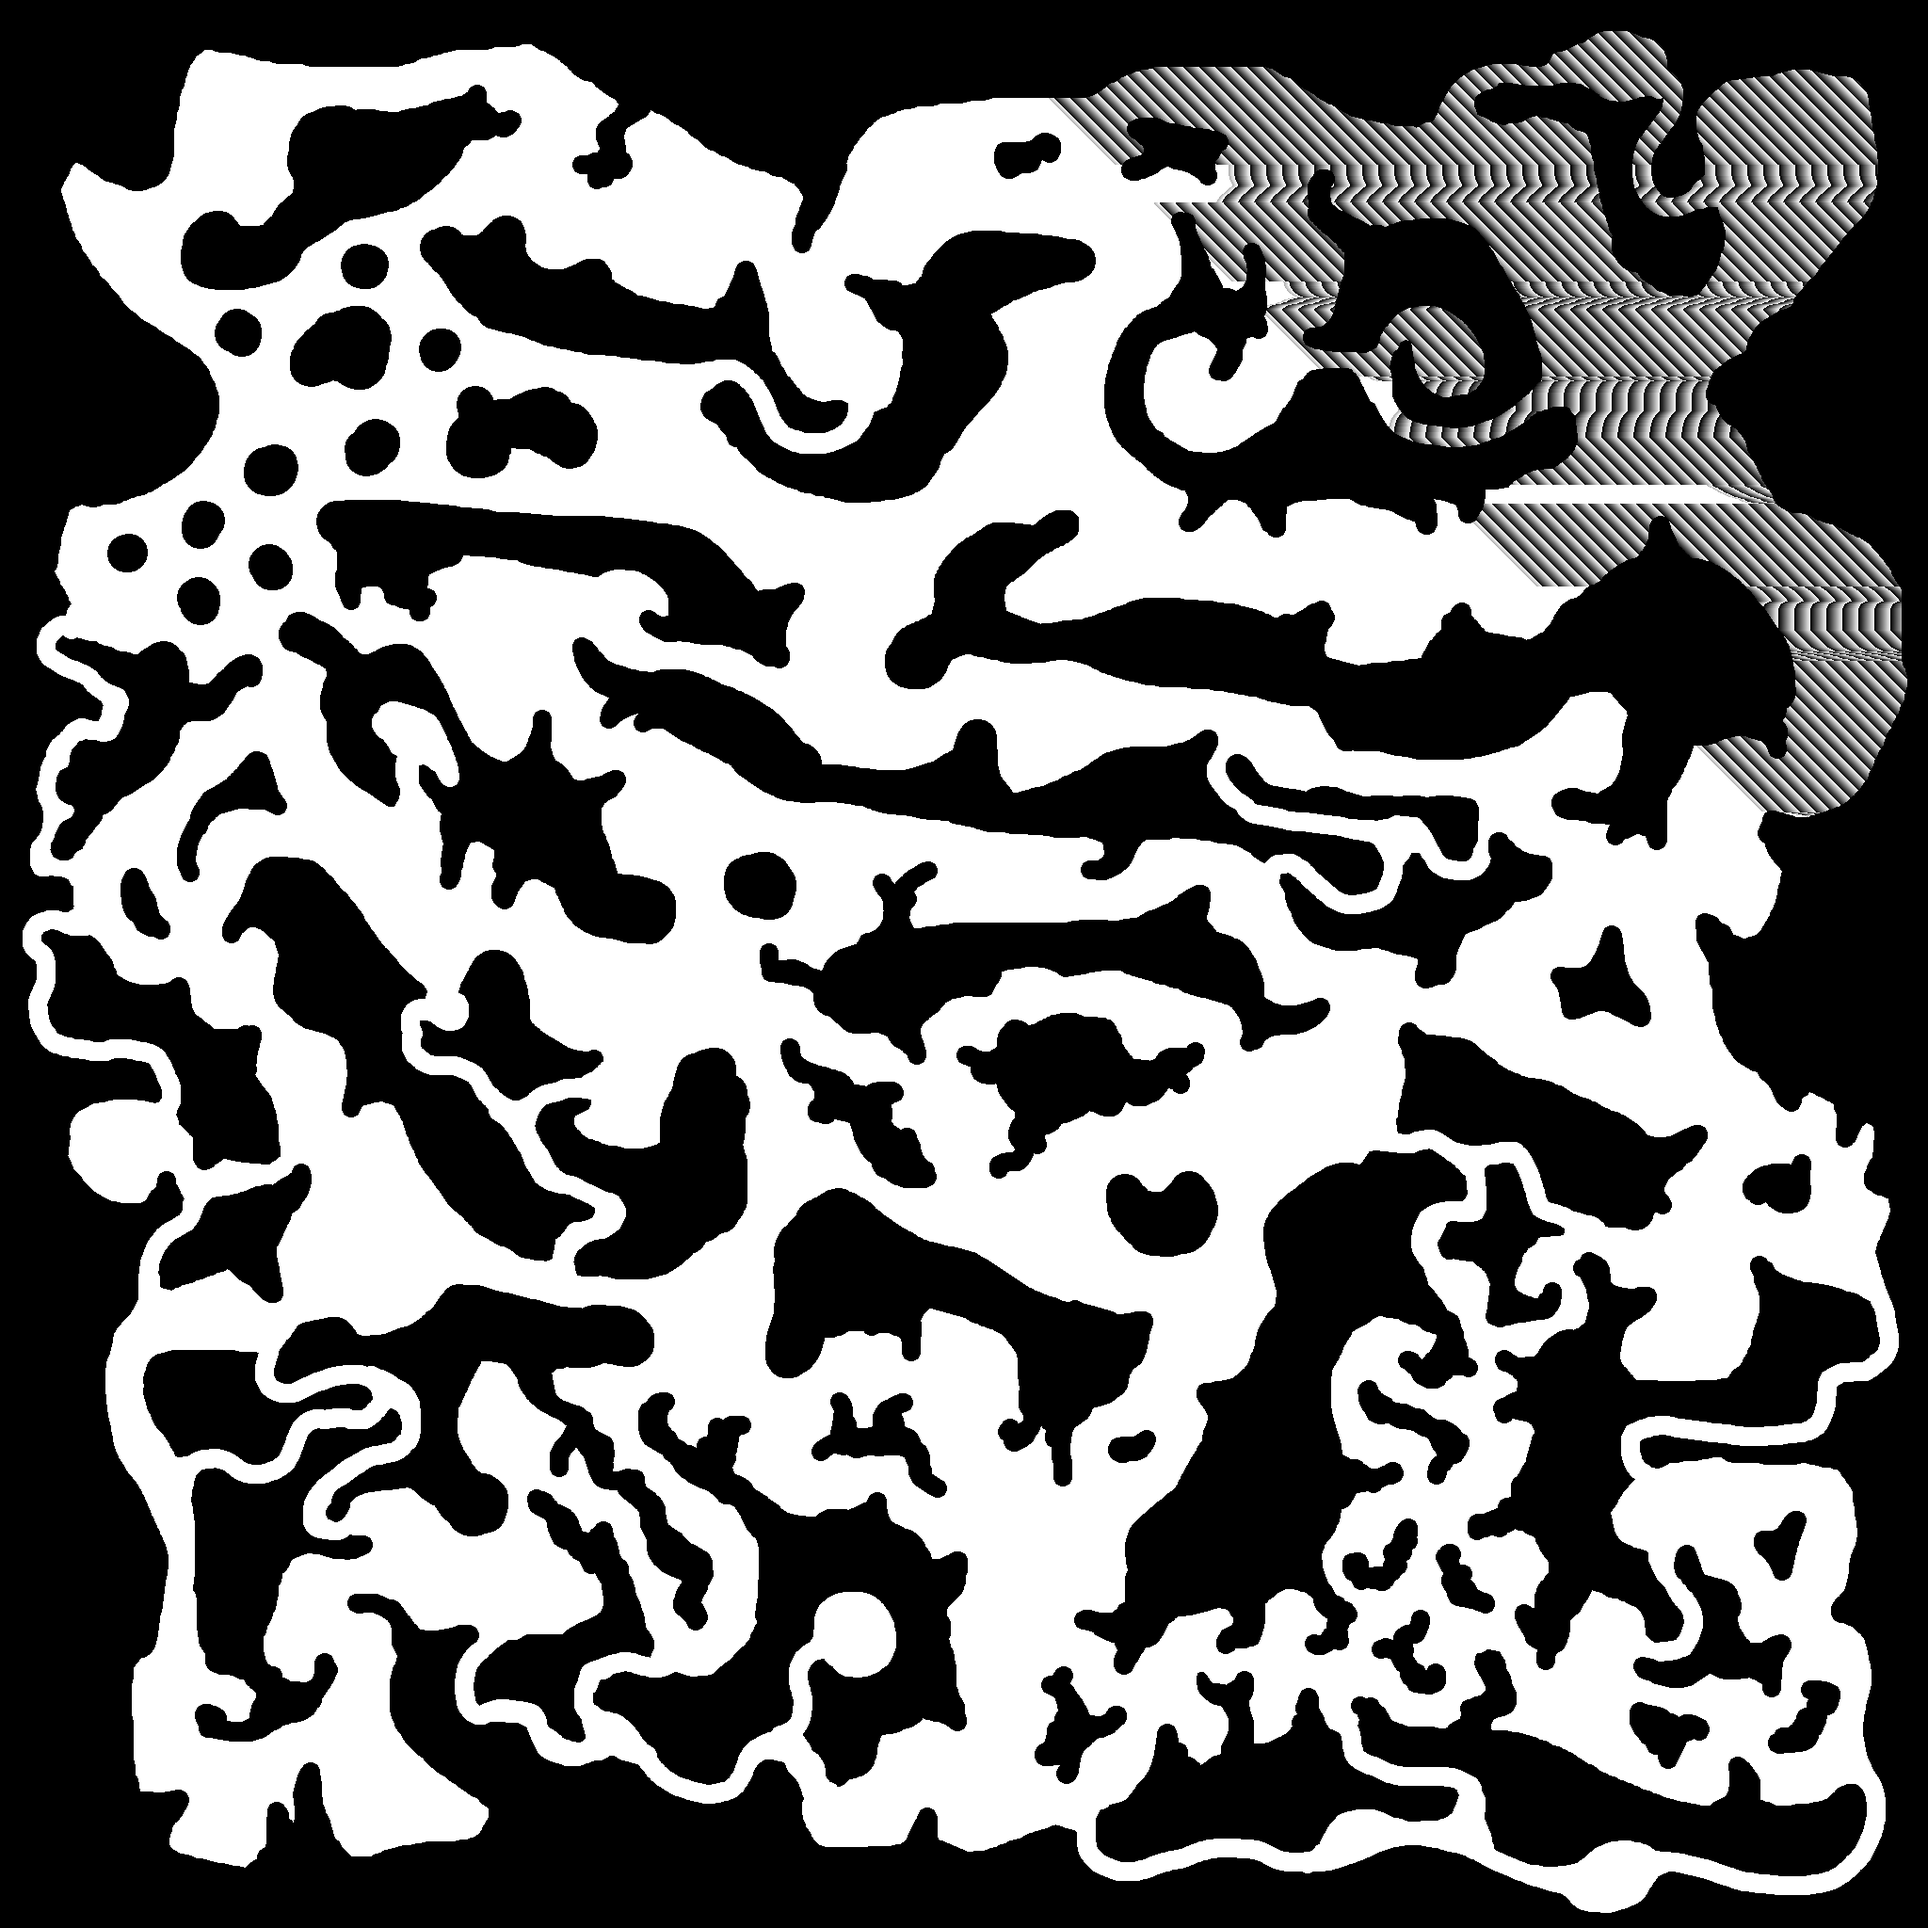
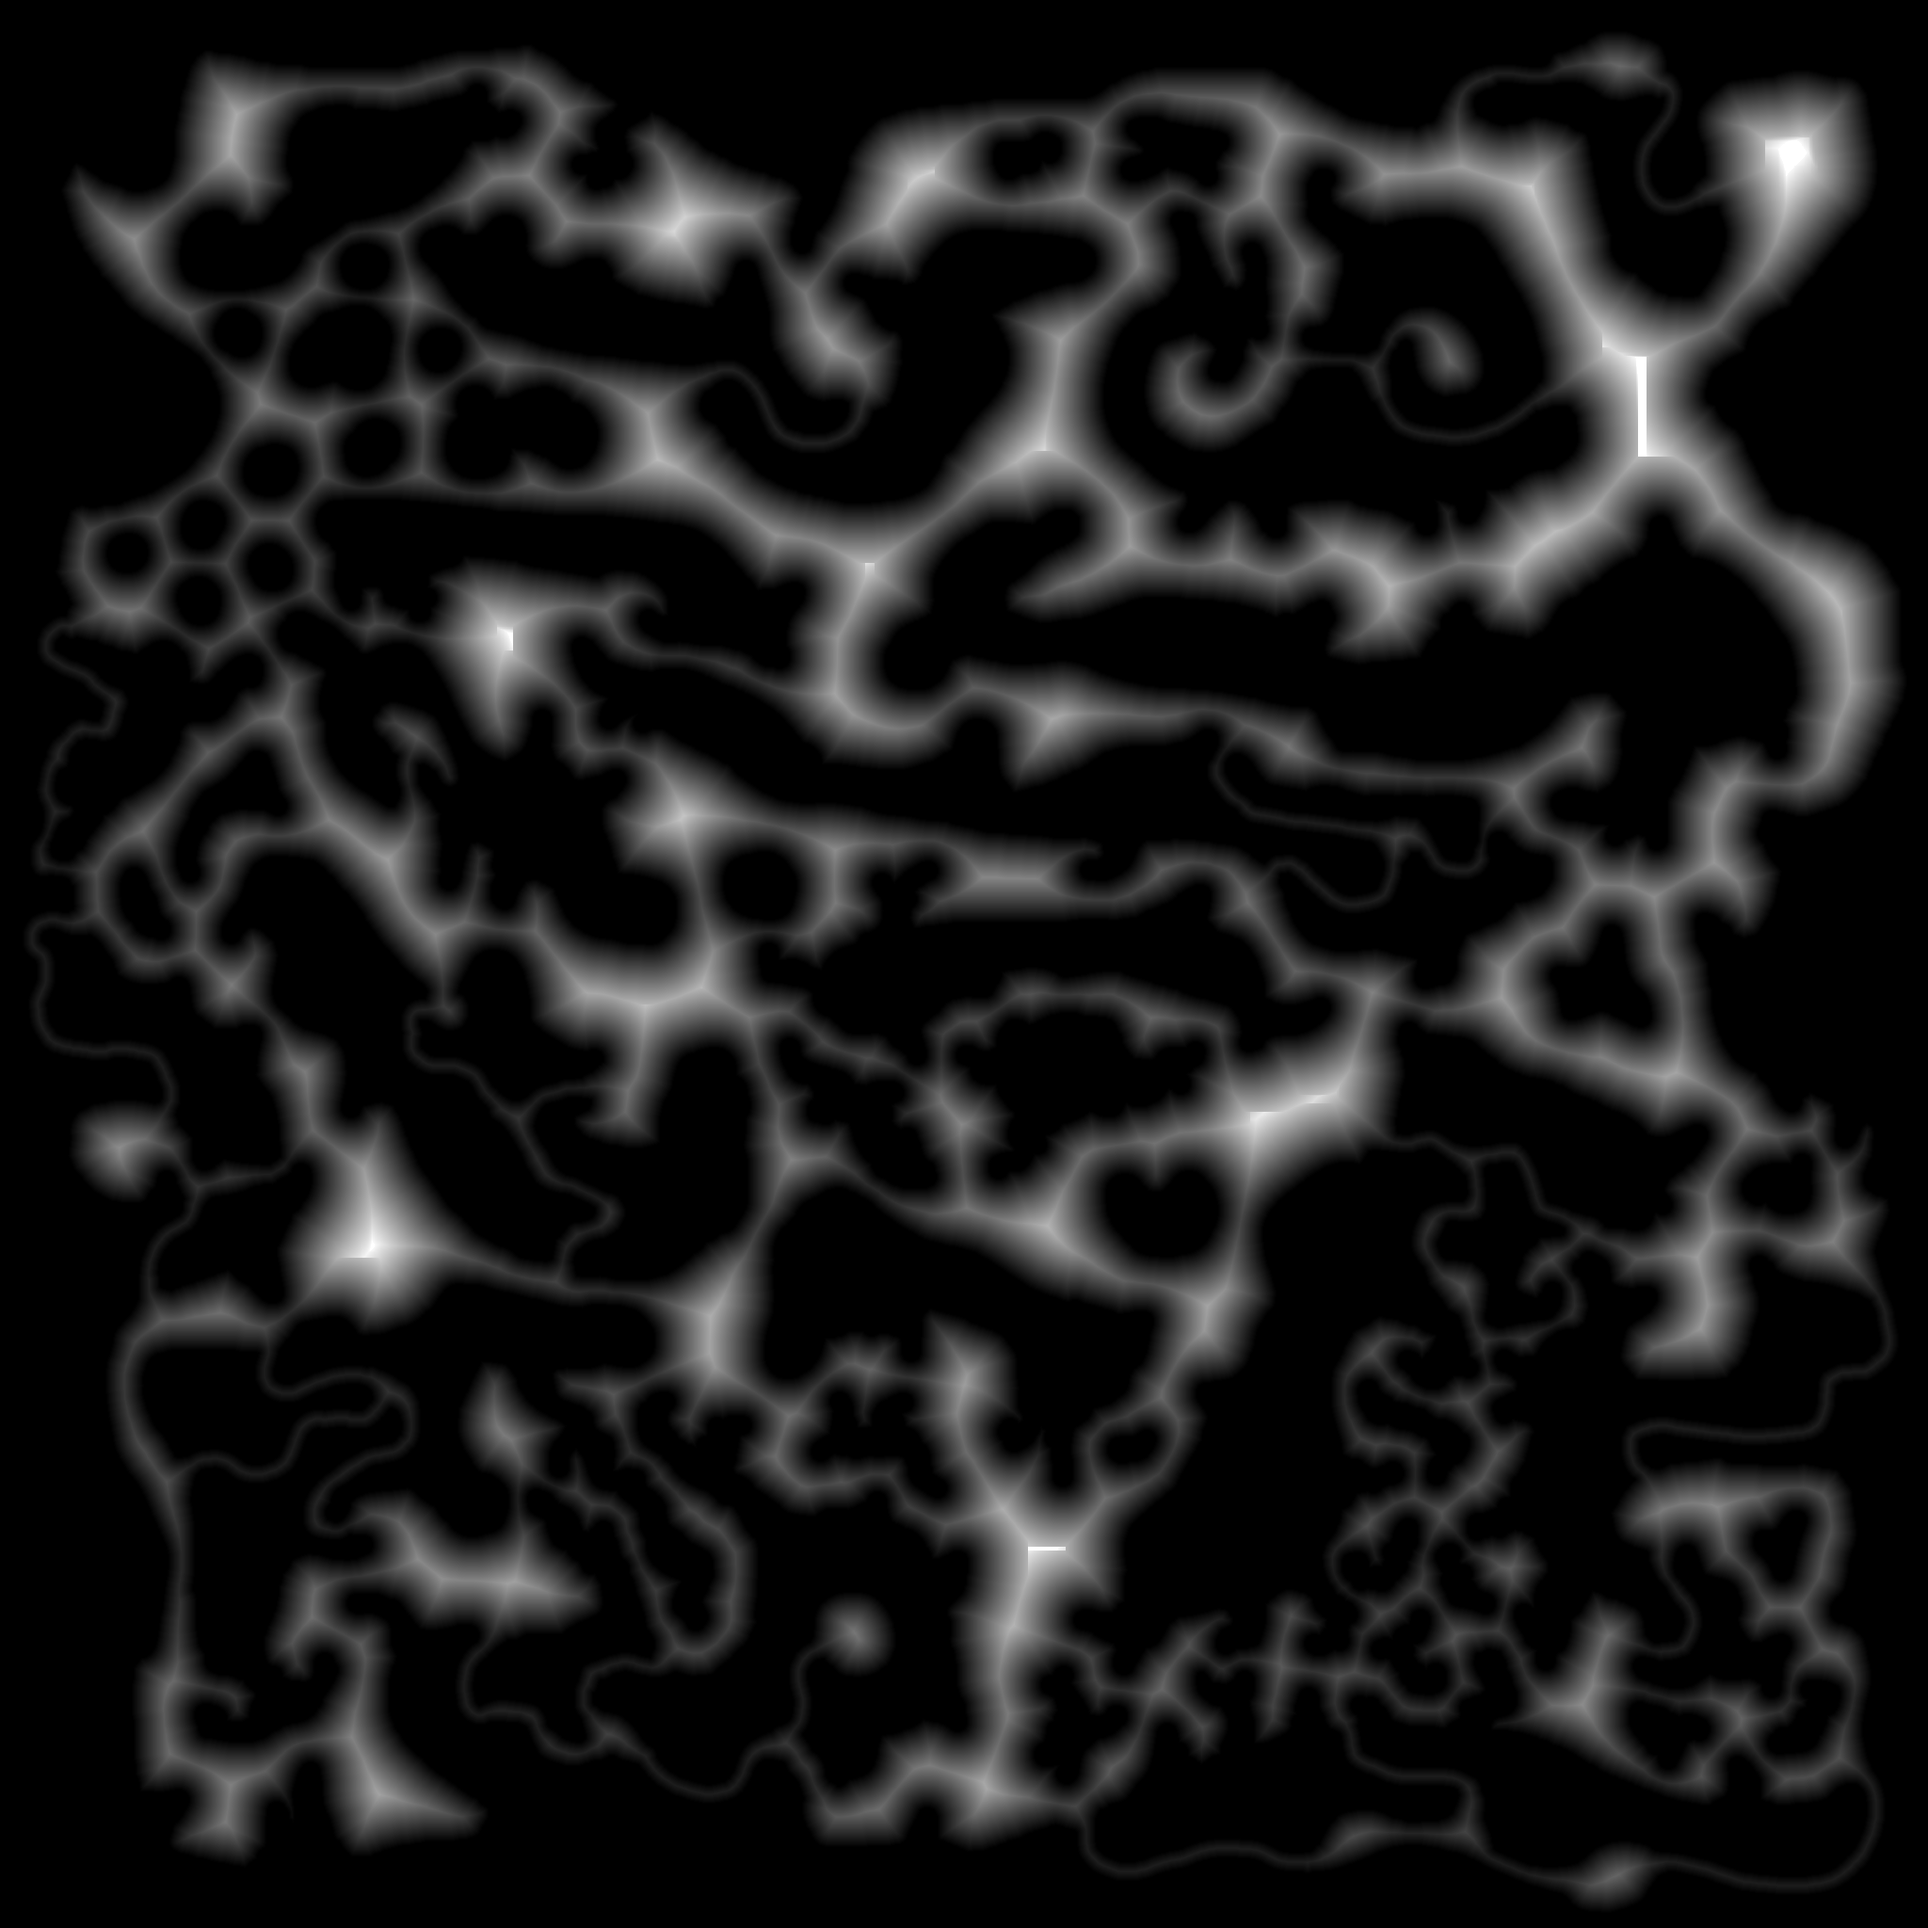
Fix map SDF generation

diff --git a/src/Map.cpp b/src/Map.cpp
@@ -29,23 +29,25 @@ static int min(int a, int b)
 	return a < b ? a : b;
 }
 
-static sf::Vector2i nearestEdgePoint(sf::Vector2u pos, sf::Image &image, size_t kernelSize = 101)
+static sf::Vector2i nearestEdgePoint(sf::Vector2i pos, sf::Image &image, int kernelSize = 101)
 {
 	if (image.getPixel(pos.x, pos.y) == wallColor)
 		return sf::Vector2i(int(pos.x), int(pos.y));
 
 	int nearestDist = 1000000;
 	sf::Vector2i nearest(-1, -1);
+
 	int xStart = max(0, pos.x - kernelSize / 2);
 	int xEnd = min(image.getSize().x - 1, pos.x + kernelSize / 2);
 	int yStart = max(0, pos.y - kernelSize / 2);
 	int yEnd = min(image.getSize().y - 1, pos.y + kernelSize / 2);
+	
 	for (int y = yStart; y < yEnd; ++y)
-	for (int x = yEnd; x < xEnd; ++x)
+	for (int x = xStart; x < xEnd; ++x)
 	{
 		sf::Vector2i diff = sf::Vector2i(x - pos.x, y - pos.y);
 		int dist = diff.x * diff.x + diff.y * diff.y;
-		if (dist < nearestDist)
+		if (dist > nearestDist)
 			continue;
 
 		sf::Color c = image.getPixel(x, y);
@@ -73,7 +75,7 @@ sf::Image generateSDF(sf::Image image)
 	std::cout << "Generating sdf." << std::endl;
 	sdf = image;
 
-	uint32_t kernelSize = 21;
+	uint32_t kernelSize = 128;
 	float maxLength = ((kernelSize + 3) / 2) * sqrtf(2.f);
 
 	for (uint32_t y = 0; y < image.getSize().y; ++y)
@@ -83,7 +85,7 @@ sf::Image generateSDF(sf::Image image)
 
 		for (uint32_t x = 0; x < image.getSize().x; ++x)
 		{
-			sf::Vector2u pos(x, y);
+			sf::Vector2i pos((int)x, (int)y);
 			sf::Vector2i nearest = nearestEdgePoint(pos, image, kernelSize);
 			float lengthNorm = 1.0f;
 			if (nearest.x == pos.x && nearest.y == pos.y)
